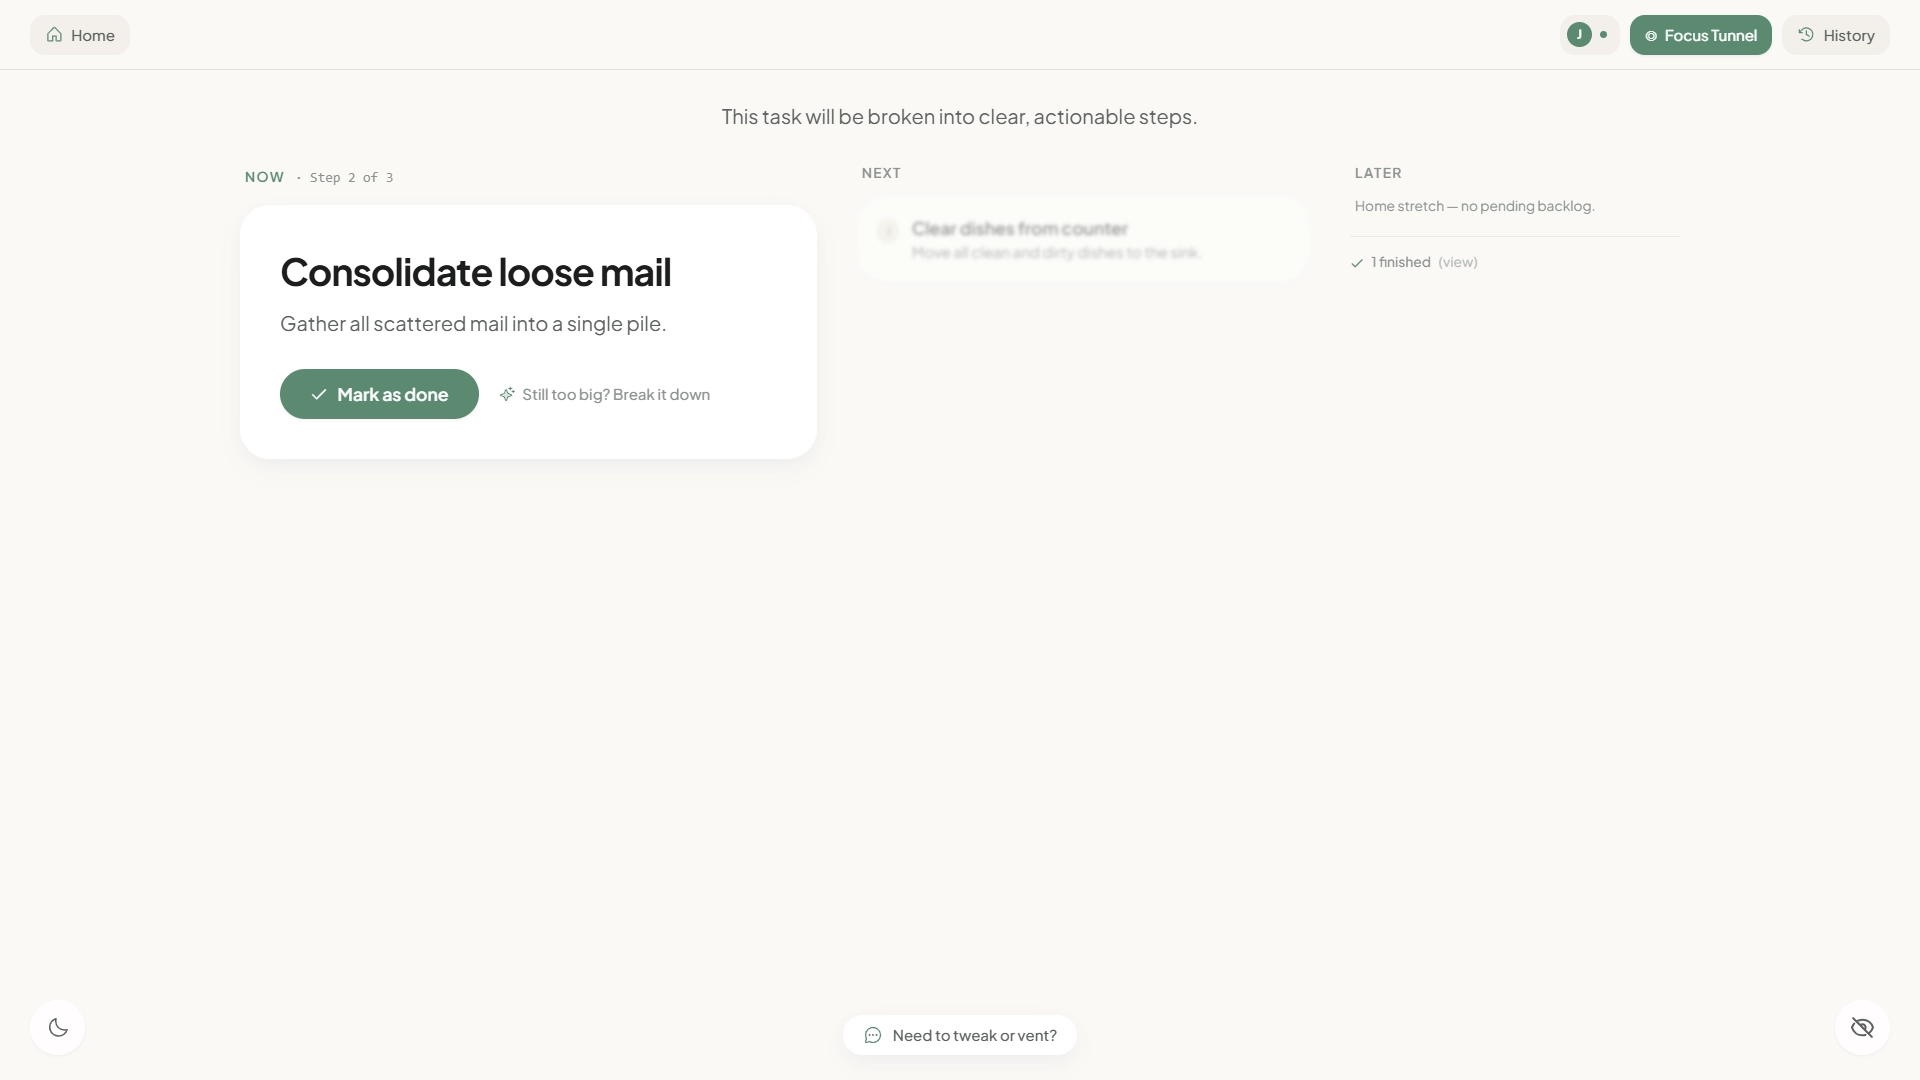
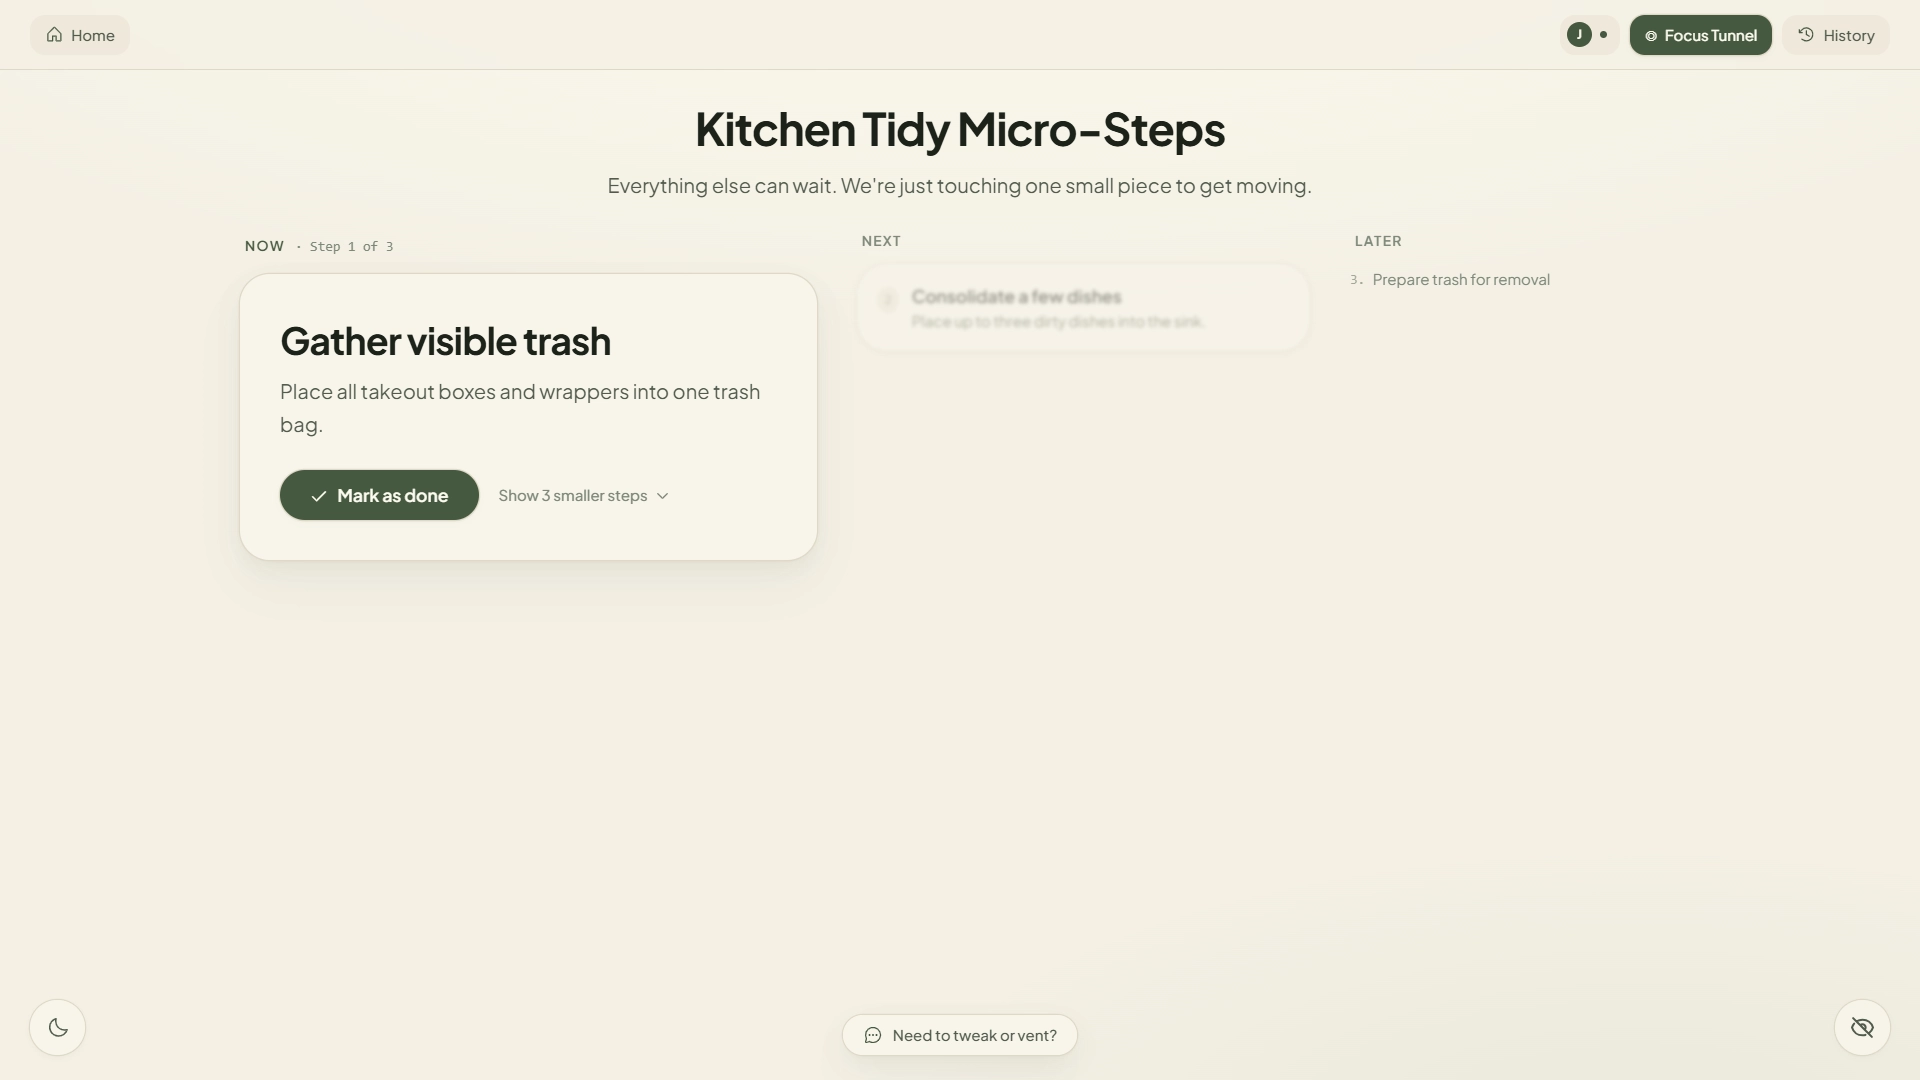
docs(screenshots): update product screenshots with Milk White & Deep Sage palette

diff --git a/README.md b/README.md
@@ -29,11 +29,7 @@ Describe what's on your mind and choose how much energy you have today:
 - **Full paralysis** (2–4 micro-actions, never more than 4)
 
 ### 2. Enter the Focus Tunnel
-New tasks open directly into a full-screen, distraction-free tunnel isolating just one step at a time so you don't scan ahead and freeze.
-
-![Focus Tunnel Intro](public/screenshots/03-focus-tunnel-intro.webp)
-
-Advance through steps with minimal keystrokes. Press `Space` or `Enter` to complete a step, `S` to break it down, or `Esc` to view the full workspace.
+New tasks open directly into a full-screen, distraction-free tunnel isolating just one step at a time so you don't scan ahead and freeze. Advance through steps with minimal keystrokes: press `Space` or `Enter` to complete a step, `S` to break it down, or `Esc` to view the full workspace.
 
 ![Focus Tunnel Active Step](public/screenshots/04-focus-tunnel-step.webp)
 
